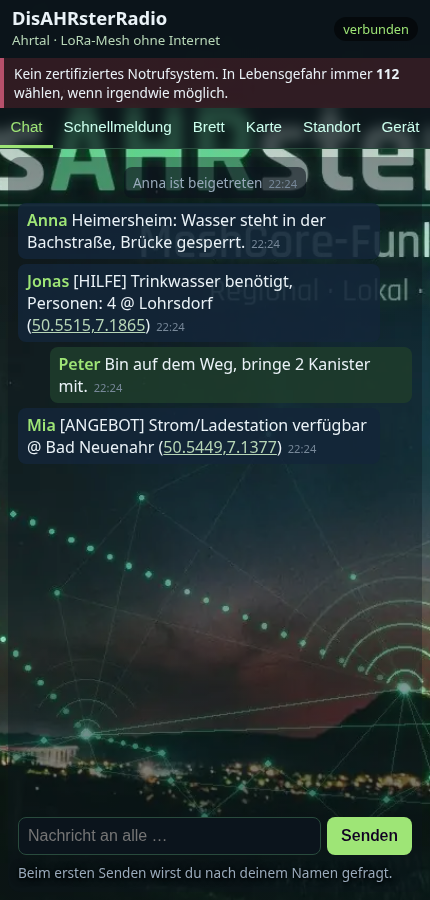
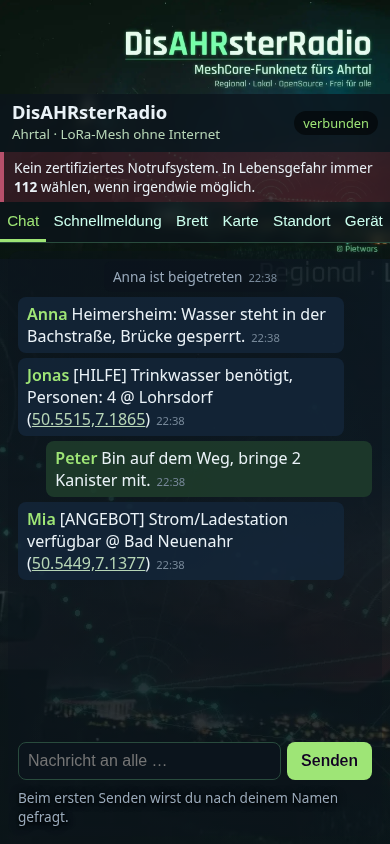
Hintergrundbild: volle Breite inkl. Schriftzug auf allen Bildschirmen

diff --git a/web/static/index.html b/web/static/index.html
@@ -6,9 +6,9 @@
 <style>
 :root{font-family:system-ui,-apple-system,sans-serif;color:#eaf2f7;color-scheme:dark;--line:#294b3d;--mesh:#9ee576;--sage:#b7d6b7;--wine:#b7506b;--card:#14263ad9}
 *{box-sizing:border-box}body{margin:0;min-height:100vh;display:flex;flex-direction:column}html{background:#0b141c}
-body::before{content:"";position:fixed;inset:0;z-index:-2;background:#0b141c url(bg.jpg) 58% 80%/cover no-repeat;background-image:image-set(url(bg.webp) type("image/webp"),url(bg.jpg) type("image/jpeg"))}
-body::after{content:"";position:fixed;inset:0;z-index:-1;background:linear-gradient(180deg,#0b141c55 0%,#0b141c00 40%,#0b141c00 70%,#0b141c88 100%)}
-@media (min-width:900px){body{max-width:900px;margin:0 auto;width:100%}body::before{background-position:center 55%}}
+body::before{content:"";position:fixed;inset:0;z-index:-2;background:url(bg.jpg) top center/min(100vw,1083px) auto no-repeat,linear-gradient(#0b141cb8,#0b141cb8),url(bg.jpg) center 70%/cover no-repeat;background-image:image-set(url(bg.webp) type("image/webp"),url(bg.jpg) type("image/jpeg")),linear-gradient(#0b141cb8,#0b141cb8),image-set(url(bg.webp) type("image/webp"),url(bg.jpg) type("image/jpeg"))}
+body::after{content:"";position:fixed;inset:0;z-index:-1;pointer-events:none;background:linear-gradient(180deg,#0b141c00 0,#0b141c00 min(24vw,260px),#0b141c66 min(40vw,430px),#0b141c33 100%)}
+@media (min-width:900px){body{max-width:900px;margin:0 auto;width:100%}}
 header{position:sticky;top:0;z-index:5;display:flex;align-items:center;gap:8px;padding:8px 12px;background:#0b141ccc;backdrop-filter:blur(6px);-webkit-backdrop-filter:blur(6px)}
 header .t{flex:1}header h1{margin:0;font-size:1.15rem;line-height:1.1}header small{color:var(--sage)}
 #st{padding:3px 9px;border-radius:12px;font-size:.8rem;background:#0008}
@@ -36,7 +36,10 @@ h2{margin:4px 0;font-size:1.05rem}
 #mapctl{position:absolute;left:6px;top:6px;display:flex;flex-direction:column;gap:4px}#mapctl button{width:34px;height:34px;padding:0;font-size:1.1rem}
 .legend{font-size:.78rem;color:#9ab;display:flex;gap:10px;flex-wrap:wrap}.legend i{display:inline-block;width:10px;height:10px;border-radius:50%;margin-right:3px;vertical-align:-1px}
 section h2,section p,.row label{text-shadow:0 1px 3px #000,0 0 8px #000}
+.hero{height:min(24vw,260px);flex:none}
+@media (min-width:1100px){body::before{background:linear-gradient(#0b141c00 560px,#0b141c 722px) top center/100% 100% no-repeat,linear-gradient(90deg,#0b141c,#0b141c00 3%,#0b141c00 97%,#0b141c) top center/1083px 722px no-repeat,url(bg.webp) top center/1083px auto no-repeat,#0b141c}}
 </style></head><body>
+<div class="hero" aria-hidden="true"></div>
 <header><div class="t"><h1>DisAHRsterRadio</h1><small>Ahrtal · LoRa-Mesh ohne Internet</small></div><div id="st" class="bad">getrennt</div></header>
 <div class="warn">Kein zertifiziertes Notrufsystem. In Lebensgefahr immer <b>112</b> wählen, wenn irgendwie möglich.</div>
 <nav><button data-tab="chat" class="on">Chat</button><button data-tab="quick">Schnellmeldung</button><button data-tab="board">Brett</button><button data-tab="map">Karte</button><button data-tab="loc">Standort</button><button data-tab="info">Gerät</button></nav>
